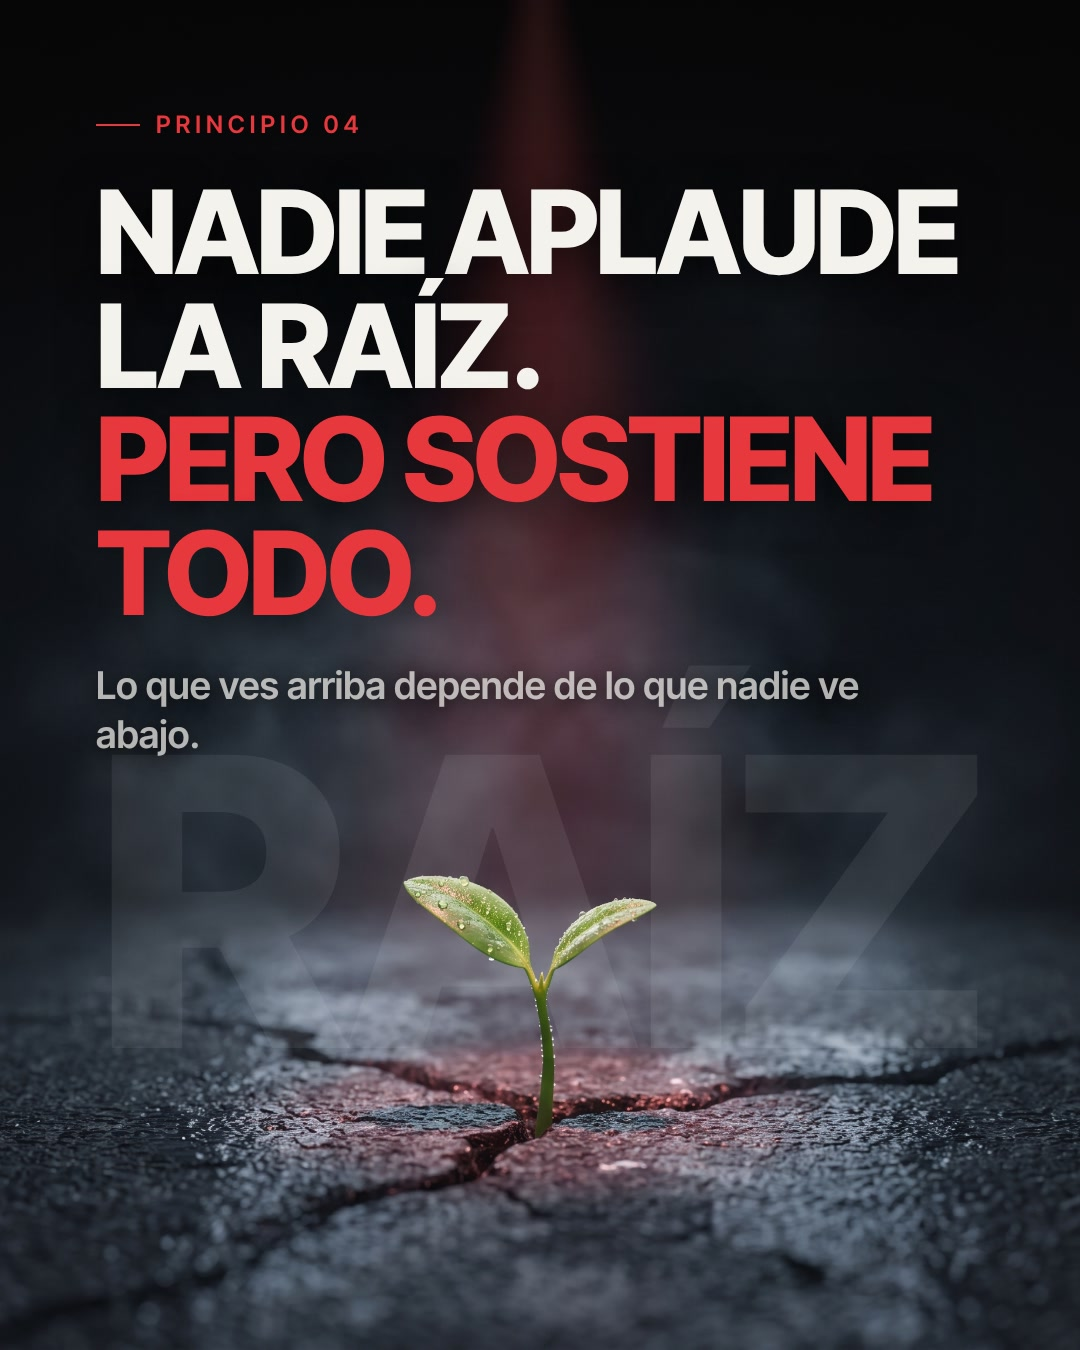
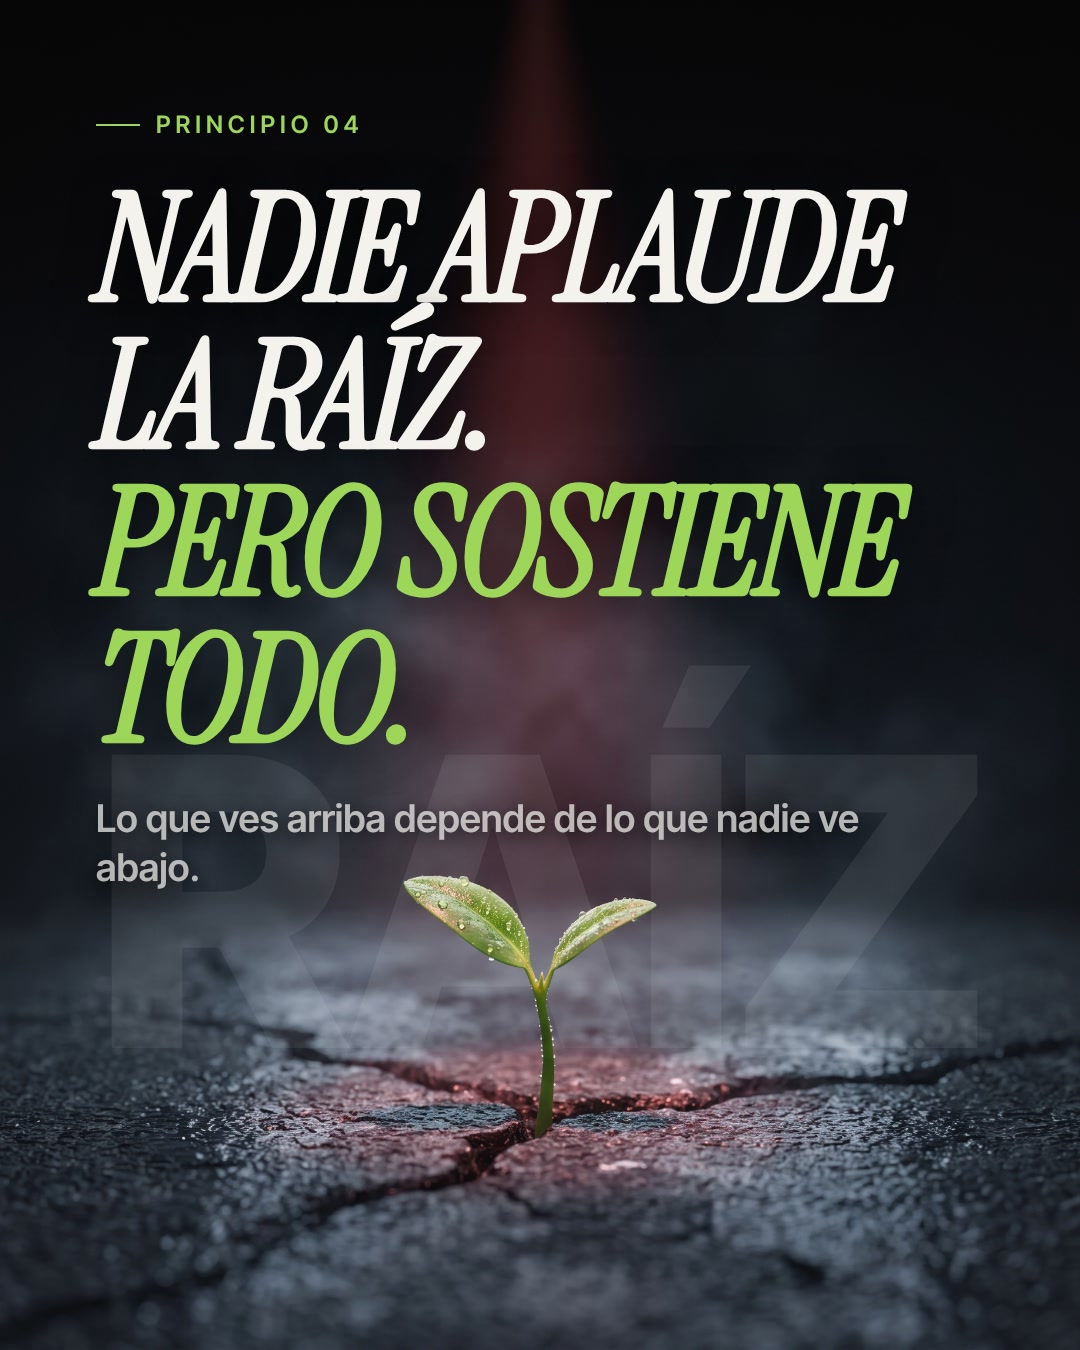
fb-img: per-post accent colors and typography for posts 4-6
Claude-Session: https://claude.ai/code/session_01C6h9by9AGUsVRZ66AngsEX

Changed region(s): [[0.0917, 0.0622, 0.8861, 0.56], [0.0917, 0.5911, 0.7944, 0.6533]]

diff --git a/video-editor/tools/fb-img/fbimg.js b/video-editor/tools/fb-img/fbimg.js
@@ -35,6 +35,9 @@ function base(p) {
   @font-face { font-family: "Sans"; src: url("${FONTS}/inter-tight-latin-800-normal.woff2"); font-weight: 800; }
   @font-face { font-family: "Sans"; src: url("${FONTS}/inter-tight-latin-600-normal.woff2"); font-weight: 600; }
   @font-face { font-family: "Serif"; src: url("${FONTS}/instrument-serif-latin-400-italic.woff2"); font-style: italic; }
+  @font-face { font-family: "Pop"; src: url("${FONTS}/poppins-latin-800-italic.woff2"); font-weight: 800; font-style: italic; }
+  @font-face { font-family: "Pop"; src: url("${FONTS}/poppins-latin-900-italic.woff2"); font-weight: 900; font-style: italic; }
+  @font-face { font-family: "Mono"; src: url("${FONTS}/jetbrains-mono-latin-700-normal.woff2"); font-weight: 700; }
   * { box-sizing: border-box; margin: 0; }
   html, body { width: ${W}px; height: ${H}px; overflow: hidden; }
   body { background: ${p.bg}; color: ${p.ink}; font-family: "Sans", sans-serif; position: relative; }
@@ -161,7 +164,10 @@ function marcar(t, tono) {
     .replace(/\|/g, "<br>");
 }
 function escena(s, p) {
-  const tono = p.tones[0];
+  const tono = s.acento || p.tones[0];
+  const tipoTitular = s.titular_fuente || "'Sans', sans-serif";
+  const estiloTitular = s.titular_estilo || "normal";
+  const tipoEtiqueta = s.etiqueta_fuente || "'Sans', sans-serif";
   const fondo = esc(s.fondo || "");
   const fsz = Math.min(420, Math.floor(1000 / Math.max(1, fondo.length) / 0.62));
   return `
@@ -169,10 +175,10 @@ function escena(s, p) {
   <img src="file://${path.resolve(ROOT, s.imagen)}" style="position:absolute; left:0; top:${s.imgY || 0}px; width:${W}px; height:${H}px; object-fit:cover; mix-blend-mode:screen;">
   <div style="position:absolute; inset:0; background:linear-gradient(180deg, rgba(5,5,5,.85) 0%, rgba(5,5,5,.35) 30%, rgba(5,5,5,0) 46%);"></div>
   <div style="position:absolute; left:96px; right:96px; top:110px; display:flex; justify-content:space-between; align-items:center; font-weight:600; font-size:24px; letter-spacing:5px; text-transform:uppercase;">
-    <span style="display:flex; align-items:center; gap:16px; color:${tono};"><span style="width:44px; height:2px; background:${tono};"></span>${esc(s.etiqueta || "")}</span>
+    <span style="display:flex; align-items:center; gap:16px; color:${tono}; font-family:${tipoEtiqueta};"><span style="width:44px; height:2px; background:${tono};"></span>${esc(s.etiqueta || "")}</span>
   </div>
   <div style="position:absolute; left:96px; right:96px; top:176px;">
-    <div style="font-weight:800; font-size:${s.tam || 116}px; line-height:.98; letter-spacing:-3.5px; text-transform:uppercase; text-shadow:0 8px 40px rgba(0,0,0,.6);">${marcar(s.titular, tono)}</div>
+    <div style="font-family:${tipoTitular}; font-style:${estiloTitular}; font-weight:800; font-size:${s.tam || 116}px; line-height:.98; letter-spacing:-3.5px; text-transform:uppercase; text-shadow:0 8px 40px rgba(0,0,0,.6);">${marcar(s.titular, tono)}</div>
     ${s.sub ? `<div style="font-weight:600; font-size:38px; line-height:1.3; margin-top:30px; max-width:820px; color:rgba(244,242,238,.72); text-shadow:0 4px 20px rgba(0,0,0,.8);">${marcar(s.sub, "#FFFFFF")}</div>` : ""}
   </div>
   ${s.flecha ? `<div style="position:absolute; right:96px; bottom:92px; font-weight:600; font-size:44px; color:${tono};">→</div>` : ""}`;
